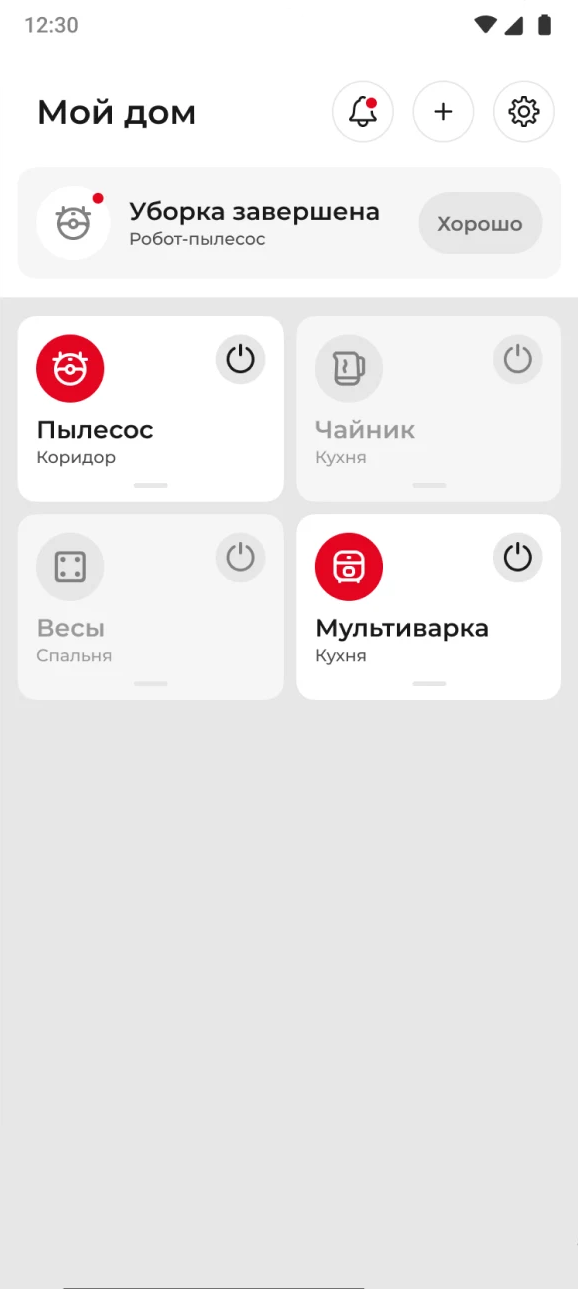
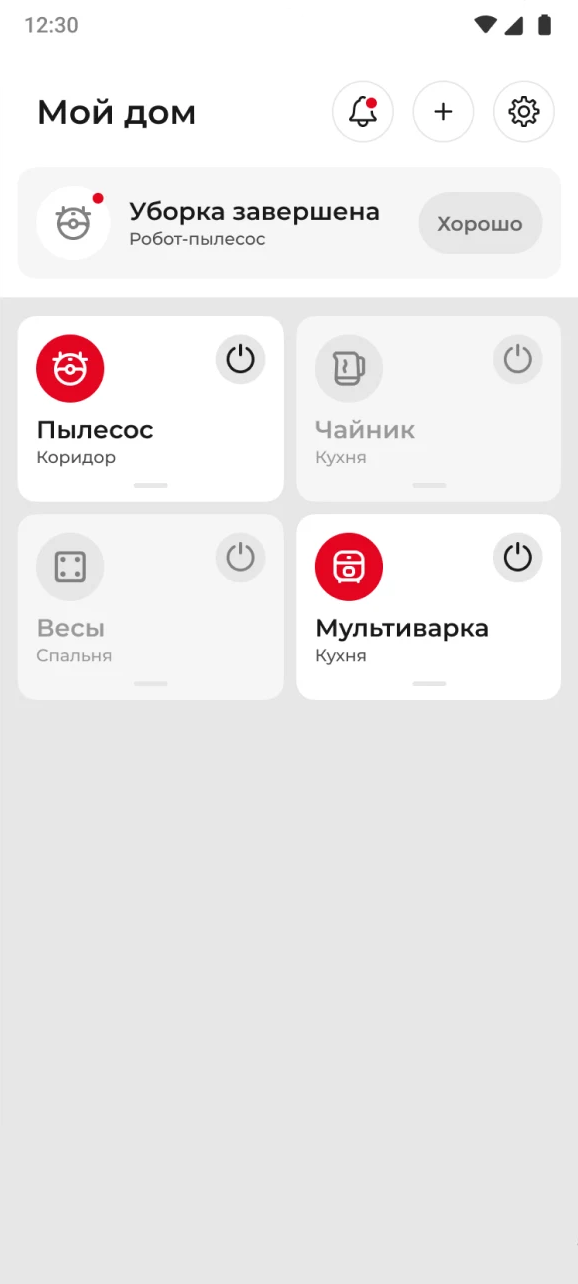
Use binary numbering and update Redmond preview

diff --git a/index.html b/index.html
@@ -17,10 +17,10 @@
       <aside class="rail" aria-label="Portfolio navigation" data-i18n-aria="railLabel">
         <a class="brand" href="#about" aria-label="Dmitrii Khodorkin - home"><img src="./assets/avatar.jpg" alt="" /><i aria-hidden="true"></i></a>
         <nav class="rail-nav" aria-label="Primary navigation" data-i18n-aria="navLabel">
-          <a href="#about" data-section="about"><span>01</span><strong>About</strong></a>
-          <a href="#projects" data-section="projects"><span>02</span><strong>Pet Projects</strong></a>
-          <a href="#experience" data-section="experience"><span>03</span><strong>Experience</strong></a>
-          <a href="#published-apps" data-section="published-apps"><span>04</span><strong>Published apps</strong></a>
+          <a href="#about" data-section="about"><span>001</span><strong>About</strong></a>
+          <a href="#projects" data-section="projects"><span>010</span><strong>Pet Projects</strong></a>
+          <a href="#experience" data-section="experience"><span>011</span><strong>Experience</strong></a>
+          <a href="#published-apps" data-section="published-apps"><span>100</span><strong>Published apps</strong></a>
         </nav>
         <div class="rail-bottom">
           <div class="language-switch" role="group" aria-label="Language" data-i18n-aria="languageLabel">
@@ -37,7 +37,7 @@
 
       <main id="main" class="content">
         <section class="section about" id="about">
-          <div class="section-tag"><span>01</span><span>About</span></div>
+          <div class="section-tag"><span>001</span><span>About</span></div>
           <div class="about-grid">
             <div class="about-main">
               <p class="availability"><i aria-hidden="true"></i><span data-i18n="availability">Open to Senior Android opportunities</span></p>
@@ -62,30 +62,30 @@
         </section>
 
         <section class="section projects" id="projects">
-          <div class="section-header"><div class="section-tag"><span>02</span><span>Pet Projects</span></div><p data-i18n="projectsIntro">Pet projects - experiments with different stacks and technologies.</p></div>
+          <div class="section-header"><div class="section-tag"><span>010</span><span>Pet Projects</span></div><p data-i18n="projectsIntro">Pet projects - experiments with different stacks and technologies.</p></div>
           <div class="project-grid">
             <article class="project-card">
               <a class="project-media" href="https://github.com/khodorkin-dmitrii/ParcelOnMap" target="_blank" rel="noreferrer" aria-label="Open Parcel On Map on GitHub" data-i18n-aria="parcelMediaLabel"><video autoplay loop muted playsinline preload="metadata"><source src="./assets/parcel-on-map.mp4" type="video/mp4" /></video><span>Android / Maps</span></a>
-              <div class="project-copy"><p class="card-index">01 / Android</p><h2>Parcel on Map</h2><p data-i18n="parcelDescription">Turns a parcel journey into an animated route. I built the multi-module Compose flow, map camera behavior and lifecycle-safe animation state.</p><a class="inline-link" href="https://github.com/khodorkin-dmitrii/ParcelOnMap" target="_blank" rel="noreferrer"><span data-i18n="viewSource">Source</span> ↗</a></div>
+              <div class="project-copy"><p class="card-index">001 / Android</p><h2>Parcel on Map</h2><p data-i18n="parcelDescription">Turns a parcel journey into an animated route. I built the multi-module Compose flow, map camera behavior and lifecycle-safe animation state.</p><a class="inline-link" href="https://github.com/khodorkin-dmitrii/ParcelOnMap" target="_blank" rel="noreferrer"><span data-i18n="viewSource">Source</span> ↗</a></div>
             </article>
             <article class="project-card">
               <a class="project-media" href="https://www.youtube.com/watch?v=0fl3sAlEawc" target="_blank" rel="noreferrer" aria-label="Watch Reach Out and Touch Screen demo" data-i18n-aria="filamentMediaLabel"><video autoplay loop muted playsinline preload="metadata"><source src="./assets/reach-out-and-touch-screen.mp4" type="video/mp4" /></video><span>Filament / 3D</span></a>
-              <div class="project-copy"><p class="card-index">02 / Real-time 3D</p><h2>Reach Out and Touch Screen</h2><p data-i18n="filamentDescription">Makes touch visible as overlapping waves on a real-time 3D Moon. I integrated Filament with Compose and implemented ray casting, GPU effects and multitouch control.</p><div class="project-links"><a class="inline-link" href="https://github.com/khodorkin-dmitrii/reach-out-and-touch-screen" target="_blank" rel="noreferrer"><span data-i18n="viewSource">Source</span> ↗</a><a class="inline-link" href="https://www.youtube.com/watch?v=0fl3sAlEawc" target="_blank" rel="noreferrer"><span data-i18n="watchDemo">Demo</span> ↗</a></div></div>
+              <div class="project-copy"><p class="card-index">010 / Real-time 3D</p><h2>Reach Out and Touch Screen</h2><p data-i18n="filamentDescription">Makes touch visible as overlapping waves on a real-time 3D Moon. I integrated Filament with Compose and implemented ray casting, GPU effects and multitouch control.</p><div class="project-links"><a class="inline-link" href="https://github.com/khodorkin-dmitrii/reach-out-and-touch-screen" target="_blank" rel="noreferrer"><span data-i18n="viewSource">Source</span> ↗</a><a class="inline-link" href="https://www.youtube.com/watch?v=0fl3sAlEawc" target="_blank" rel="noreferrer"><span data-i18n="watchDemo">Demo</span> ↗</a></div></div>
             </article>
             <article class="project-card">
               <a class="project-media" href="https://github.com/khodorkin-dmitrii/holocron-of-balance" target="_blank" rel="noreferrer" aria-label="Open Holocron of Balance on GitHub" data-i18n-aria="holocronMediaLabel"><img src="./assets/holocron-preview.gif" alt="Holocron of Balance application preview" loading="lazy" /><span>Kotlin Multiplatform</span></a>
-              <div class="project-copy"><p class="card-index">03 / KMP</p><h2>Holocron of Balance</h2><p data-i18n="holocronDescription">Turns remote Star Wars data (based on the legendary SWAPI plus custom content) into an explorable offline graph. I designed the shared KMP architecture, typed persistence and database-first data flow.</p><a class="inline-link" href="https://github.com/khodorkin-dmitrii/holocron-of-balance" target="_blank" rel="noreferrer"><span data-i18n="viewSource">Source</span> ↗</a></div>
+              <div class="project-copy"><p class="card-index">011 / KMP</p><h2>Holocron of Balance</h2><p data-i18n="holocronDescription">Turns remote Star Wars data (based on the legendary SWAPI plus custom content) into an explorable offline graph. I designed the shared KMP architecture, typed persistence and database-first data flow.</p><a class="inline-link" href="https://github.com/khodorkin-dmitrii/holocron-of-balance" target="_blank" rel="noreferrer"><span data-i18n="viewSource">Source</span> ↗</a></div>
             </article>
           </div>
           <div class="other-work" aria-label="Other work" data-i18n-aria="otherWorkLabel">
-            <article class="work-row handbook-row"><div class="work-row-index">04</div><div><p class="card-index">Knowledge base</p><h3>Android Dev Handbook</h3></div><p data-i18n="handbookDescription">A bilingual practical reference for Android, Kotlin, Compose, architecture, testing and performance.</p><div class="work-row-links"><a href="https://khodorkin-dmitrii.github.io/android-dev-handbook/en/" target="_blank" rel="noreferrer"><span data-i18n="openProject">Open</span> ↗</a><a href="https://github.com/khodorkin-dmitrii/android-dev-handbook" target="_blank" rel="noreferrer">GitHub ↗</a></div></article>
-            <article class="work-row audio-row"><div class="work-row-index">05</div><div><p class="card-index">Android / Media3</p><h3>Android Handbook Audio</h3></div><p data-i18n="audioDescription">A native Android companion for the Handbook, designed for bilingual educational playlists, streaming playback and media controls.</p><div class="work-row-links"><a href="https://github.com/khodorkin-dmitrii/android-handbook-audio" target="_blank" rel="noreferrer">GitHub ↗</a></div></article>
-            <article class="work-row between-row"><div class="work-row-index">06</div><div><p class="card-index">Unity / Game</p><h3>Between Stops</h3></div><p data-i18n="betweenDescription">An atmospheric narrative game where I build reusable mini-games, animation systems and progress persistence.</p><div class="work-row-links"><a href="https://alexdadaev.itch.io/betweenstops" target="_blank" rel="noreferrer"><span data-i18n="openProject">Open</span> ↗</a></div></article>
+            <article class="work-row handbook-row"><div class="work-row-index">100</div><div><p class="card-index">Knowledge base</p><h3>Android Dev Handbook</h3></div><p data-i18n="handbookDescription">A bilingual practical reference for Android, Kotlin, Compose, architecture, testing and performance.</p><div class="work-row-links"><a href="https://khodorkin-dmitrii.github.io/android-dev-handbook/en/" target="_blank" rel="noreferrer"><span data-i18n="openProject">Open</span> ↗</a><a href="https://github.com/khodorkin-dmitrii/android-dev-handbook" target="_blank" rel="noreferrer">GitHub ↗</a></div></article>
+            <article class="work-row audio-row"><div class="work-row-index">101</div><div><p class="card-index">Android / Media3</p><h3>Android Handbook Audio</h3></div><p data-i18n="audioDescription">A native Android companion for the Handbook, designed for bilingual educational playlists, streaming playback and media controls.</p><div class="work-row-links"><a href="https://github.com/khodorkin-dmitrii/android-handbook-audio" target="_blank" rel="noreferrer">GitHub ↗</a></div></article>
+            <article class="work-row between-row"><div class="work-row-index">110</div><div><p class="card-index">Unity / Game</p><h3>Between Stops</h3></div><p data-i18n="betweenDescription">An atmospheric narrative game where I build reusable mini-games, animation systems and progress persistence.</p><div class="work-row-links"><a href="https://alexdadaev.itch.io/betweenstops" target="_blank" rel="noreferrer"><span data-i18n="openProject">Open</span> ↗</a></div></article>
           </div>
         </section>
 
         <section class="section experience" id="experience">
-          <div class="section-header"><div class="section-tag"><span>03</span><span>Experience</span></div><p data-i18n="experienceIntro">Product work from my CV, from mobile games and logistics to fintech, fitness and IoT.</p></div>
+          <div class="section-header"><div class="section-tag"><span>011</span><span>Experience</span></div><p data-i18n="experienceIntro">Product work from my CV, from mobile games and logistics to fintech, fitness and IoT.</p></div>
           <div class="experience-list">
             <article class="experience-row"><p class="experience-date">2023 - 2026</p><div><p class="experience-company">TLM</p><h2>Senior Android Developer</h2><p data-i18n="tlmDescription">Worked on iRobot Home: live maps, 2D/3D rendering, map editing and real-time robot state. Owned complex features from technical design through production reliability.</p></div><a class="experience-link" href="https://play.google.com/store/apps/details?id=com.irobot.home.prime" target="_blank" rel="noreferrer" aria-label="iRobot Home on Google Play">iRobot Home ↗</a></article>
             <article class="experience-row"><p class="experience-date">2022 - 2023</p><div><p class="experience-company">Sweatcoin</p><h2>Senior Mobile Engineer</h2><p data-i18n="sweatcoinDescription">Delivered cross-platform product features for Android and iOS. Reduced loading time on a complex screen by about three times through request optimization and parallel loading.</p></div><a class="experience-link" href="https://play.google.com/store/apps/details?id=in.sweatco.app" target="_blank" rel="noreferrer" aria-label="Sweatcoin on Google Play">Sweatcoin ↗</a></article>
@@ -99,7 +99,7 @@
 
         <section class="section published-apps" id="published-apps" aria-labelledby="published-apps-title">
           <div class="section-header">
-            <h2 class="section-tag" id="published-apps-title"><span>04</span><span>Published apps</span></h2>
+            <h2 class="section-tag" id="published-apps-title"><span>100</span><span>Published apps</span></h2>
             <p data-i18n="publishedIntro">Commercial apps I’ve contributed to as part of engineering teams.</p>
           </div>
           <div class="published-apps-toolbar">

diff --git a/apps/index.html b/apps/index.html
@@ -18,10 +18,10 @@
       <aside class="rail" aria-label="Portfolio navigation" data-i18n-aria="railLabel">
         <a class="brand" href="/#about" aria-label="Dmitrii Khodorkin - home"><img src="../assets/avatar.jpg" alt="" /><i aria-hidden="true"></i></a>
         <nav class="rail-nav" aria-label="Primary navigation" data-i18n-aria="navLabel">
-          <a href="/#about"><span>01</span><strong>About</strong></a>
-          <a href="/#projects"><span>02</span><strong>Pet Projects</strong></a>
-          <a href="/#experience"><span>03</span><strong>Experience</strong></a>
-          <a class="is-active" href="/#published-apps" aria-current="true"><span>04</span><strong>Published apps</strong></a>
+          <a href="/#about"><span>001</span><strong>About</strong></a>
+          <a href="/#projects"><span>010</span><strong>Pet Projects</strong></a>
+          <a href="/#experience"><span>011</span><strong>Experience</strong></a>
+          <a class="is-active" href="/#published-apps" aria-current="true"><span>100</span><strong>Published apps</strong></a>
         </nav>
         <div class="rail-bottom">
           <button class="theme-toggle" id="theme-toggle" type="button" aria-label="Switch color theme" data-i18n-aria="themeLabel">
@@ -34,7 +34,7 @@
 
       <main id="main" class="content apps-content">
         <section class="section apps-intro" aria-labelledby="apps-title">
-          <div class="section-tag"><span>04</span><span>Published apps</span></div>
+          <div class="section-tag"><span>100</span><span>Published apps</span></div>
           <h1 id="apps-title">Published apps I’ve worked on</h1>
           <p class="lede">A selection of published apps I’ve contributed to as part of engineering teams. These apps are published under their respective companies’ accounts. Below is a summary of my own work on each product.</p>
           <a class="inline-link" href="/">Back to portfolio <span aria-hidden="true">↗</span></a>
@@ -50,7 +50,7 @@
             </figure>
             <div class="app-card-body">
               <header class="app-card-header">
-                <p class="card-index">01 / TLM</p>
+                <p class="card-index">001 / TLM</p>
                 <h2 id="irobot-home-title">iRobot Home</h2>
                 <p class="app-role">Senior Android Developer</p>
                 <p class="app-period">2023 - 2026</p>
@@ -77,7 +77,7 @@
             </figure>
             <div class="app-card-body">
               <header class="app-card-header">
-                <p class="card-index">02 / Sweatcoin</p>
+                <p class="card-index">010 / Sweatcoin</p>
                 <h2 id="sweatcoin-title">Sweatcoin</h2>
                 <p class="app-role">Senior Mobile Engineer (React Native)</p>
                 <p class="app-period">2022 - 2023</p>
@@ -103,7 +103,7 @@
             </figure>
             <div class="app-card-body">
               <header class="app-card-header">
-                <p class="card-index">03 / Sweatcoin</p>
+                <p class="card-index">011 / Sweatcoin</p>
                 <h2 id="sweat-wallet-title">Sweat Wallet</h2>
                 <p class="app-role">Senior Mobile Engineer (React Native)</p>
                 <p class="app-period">2022 - 2023</p>
@@ -129,7 +129,7 @@
             </figure>
             <div class="app-card-body">
               <header class="app-card-header">
-                <p class="card-index">04 / Ready for Sky</p>
+                <p class="card-index">100 / Ready for Sky</p>
                 <h2 id="ready-for-sky-title">Ready for Sky / Redmond</h2>
                 <p class="app-role">Senior Android Engineer</p>
                 <p class="app-period">2021 - 2022</p>
@@ -156,7 +156,7 @@
             </figure>
             <div class="app-card-body">
               <header class="app-card-header">
-                <p class="card-index">05 / Improve Digital</p>
+                <p class="card-index">101 / Improve Digital</p>
                 <h2 id="nuki-title">Nuki Smart Lock</h2>
                 <p class="app-role">Android Developer</p>
                 <p class="app-period">During my time at Improve Digital, 2018 - 2020</p>
